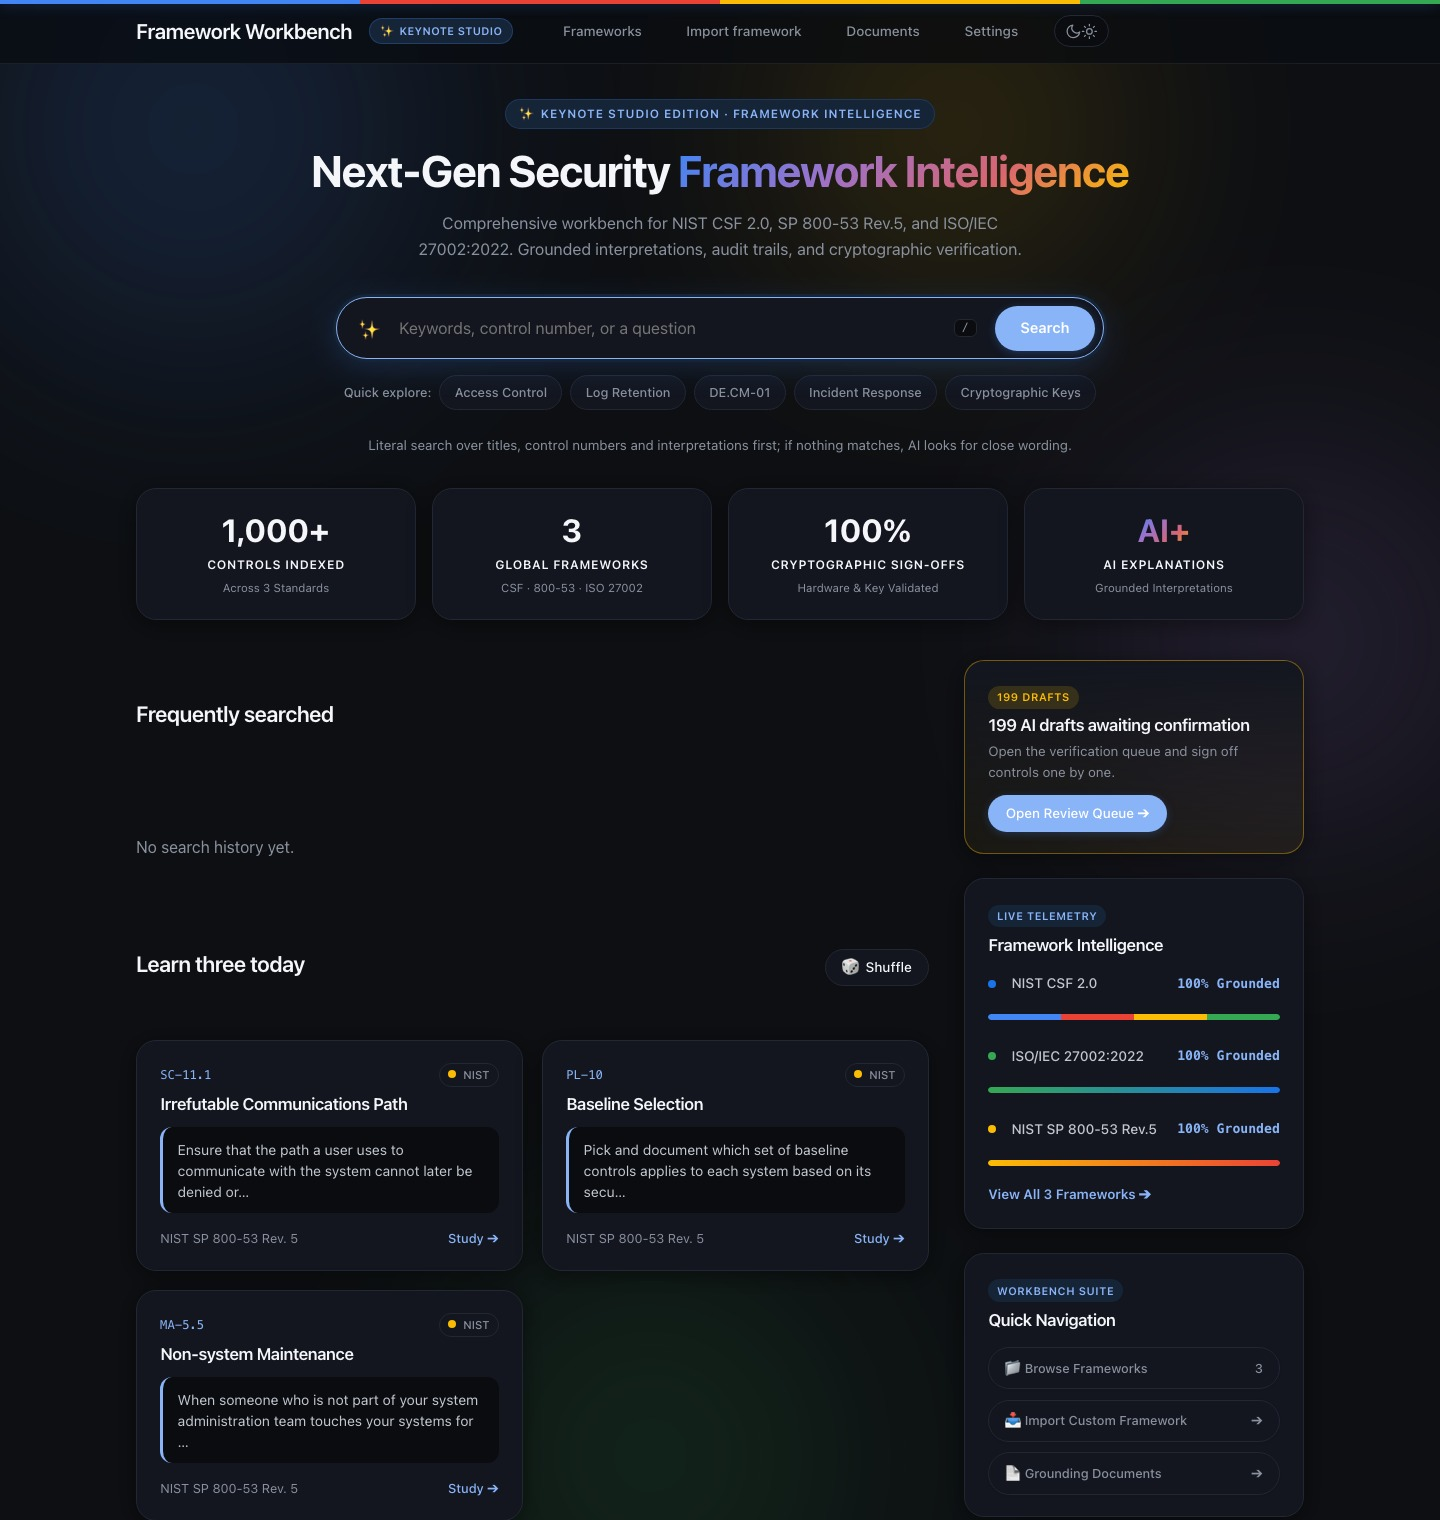
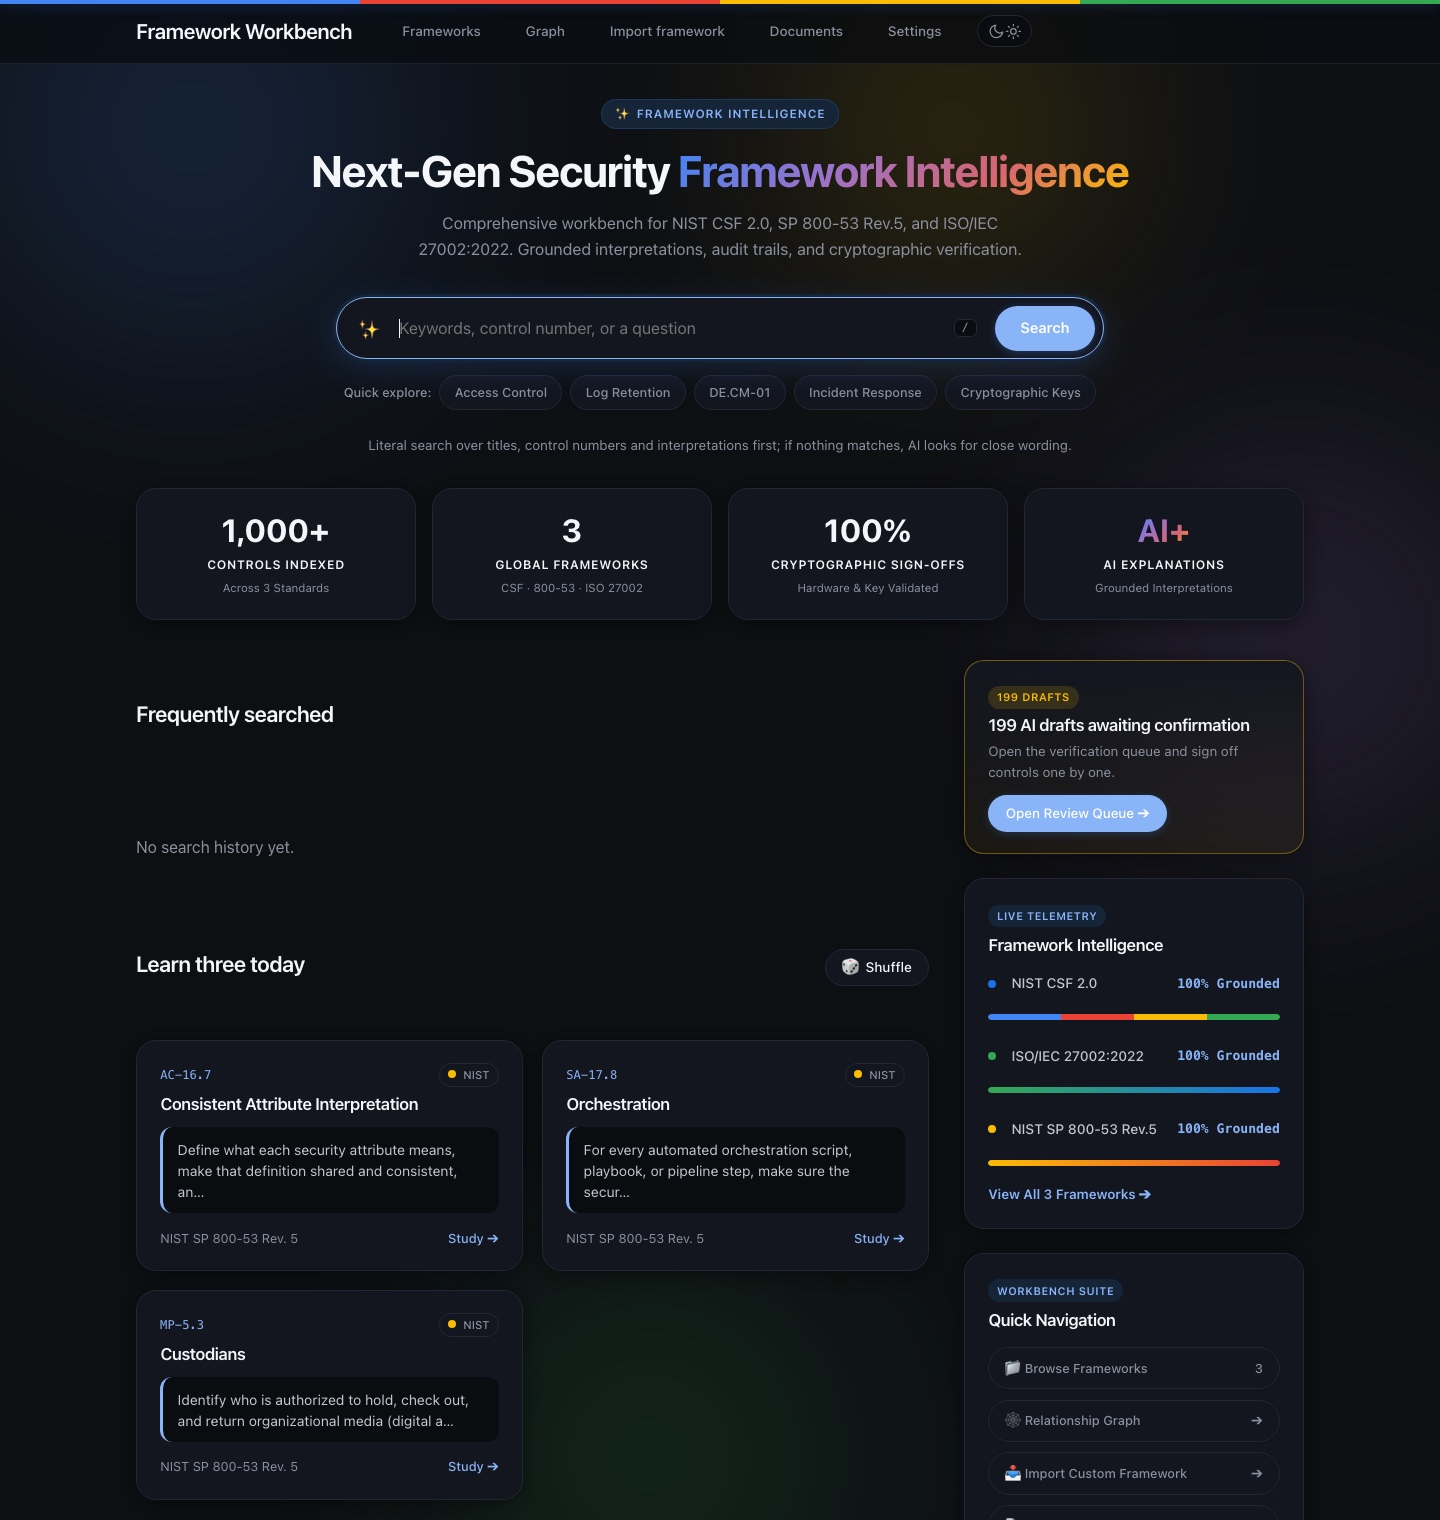
docs: update README with relationship graph feature and refreshed screenshots

diff --git a/README.md b/README.md
@@ -13,6 +13,8 @@ such; do not hand them to an auditor as-is.
 
 ![One control: what it defends against, plain words, how to implement, what serves as evidence — each field marked with who wrote it](docs/screenshots/control.jpg)
 
+![Cross-Framework Relationship Graph: dynamic force-directed network showing mappings across NIST CSF 2.0, SP 800-53 Rev.5, and ISO/IEC 27002:2022 with anti-clustering physics and 1-hop inspection drawer](docs/screenshots/graph.jpg)
+
 ## Why
 
 Asking a model "which controls cover log retention?" gets a plausible
@@ -293,13 +295,20 @@ for external auditors.
 fr serve                      # -> http://127.0.0.1:8765
 ```
 
-The web shell is built as an expressive **Keynote Studio Bento Grid UI**:
+The web shell is built as an expressive **Bento Grid UI**:
 
-- **Keynote Studio Stage Aesthetic**: Full-bleed frosted glass navbar (`100vw`), signature 4-color glowing laser stripe (`#4285F4`, `#EA4335`, `#FBBC05`, `#34A853`), and smooth transition between **Obsidian Dark** and **Ceramic Light** modes.
+- **Modern Stage Aesthetic**: Full-bleed frosted glass navbar (`100vw`), signature 4-color glowing laser stripe (`#4285F4`, `#EA4335`, `#FBBC05`, `#34A853`), and smooth transition between **Obsidian Dark** and **Ceramic Light** modes.
 - **Omnibox 2.0 & Keyboard Shortcut**: Floating search capsule with contextual prompt suggestions and an instant **`/` keyboard shortcut** to focus the search bar from anywhere on the page.
 - **Asymmetric Bento Grid Dashboard**:
   - **Main Stage (Left)**: Hot-tracked security controls with quick jump tags, plus **Learn Three Today** floating study cards with framework badges, concise intent snippets, and an animated `🎲 Shuffle` button.
-  - **Intelligence HUD (Right)**: **Live Telemetry** meters monitoring compliance coverage across NIST CSF 2.0, ISO/IEC 27002:2022, and NIST SP 800-53 Rev.5, an amber alert card for pending AI drafts, and quick-launch shortcuts to documents and frameworks.
+  - **Intelligence HUD (Right)**: **Live Telemetry** meters monitoring compliance coverage across NIST CSF 2.0, ISO/IEC 27002:2022, and NIST SP 800-53 Rev.5, an amber alert card for pending AI drafts, and quick-launch shortcuts to documents, frameworks, and the relationship graph.
+- **Interactive Cross-Framework Relationship Graph (`/graph`)**:
+  - **Force-Directed Network Visualization**: Real-time canvas-rendered graph depicting relationships and overlaps between NIST CSF 2.0, SP 800-53 Rev.5, and ISO/IEC 27002:2022 controls.
+  - **Anti-Clustering Physics Engine**: Degree-aware spring equilibrium and pairwise collision buffers prevent high-density clusters from bunching up, spreading tightly mapped controls into radial starburst patterns.
+  - **Real-Time Spacing Control**: Interactive slider (0.7x – 2.6x) to smoothly adjust node repulsion and distribution distance.
+  - **1-Hop Subgraph & Inspector Drawer**: Click any control node to spotlight its immediate cross-framework mappings with an interactive drawer showing full titles, mapping types, and one-click navigation to control details.
+  - **Omnibox Graph Search & Framework Filters**: Quick autocomplete search to smoothly fly and focus camera on target controls, plus one-click framework filter chips.
+  - **Zero External CDN**: 100% pure client-side HTML5 canvas and vanilla physics engine; strictly adheres to offline invariants.
 - **Interactive Clause Chat**: Conversational AI assistant cards on control pages for context-aware Q&A, evidence brainstorming, and policy alignment.
 
 Built-in and imported frameworks live under "Frameworks" in the top bar, with "has
